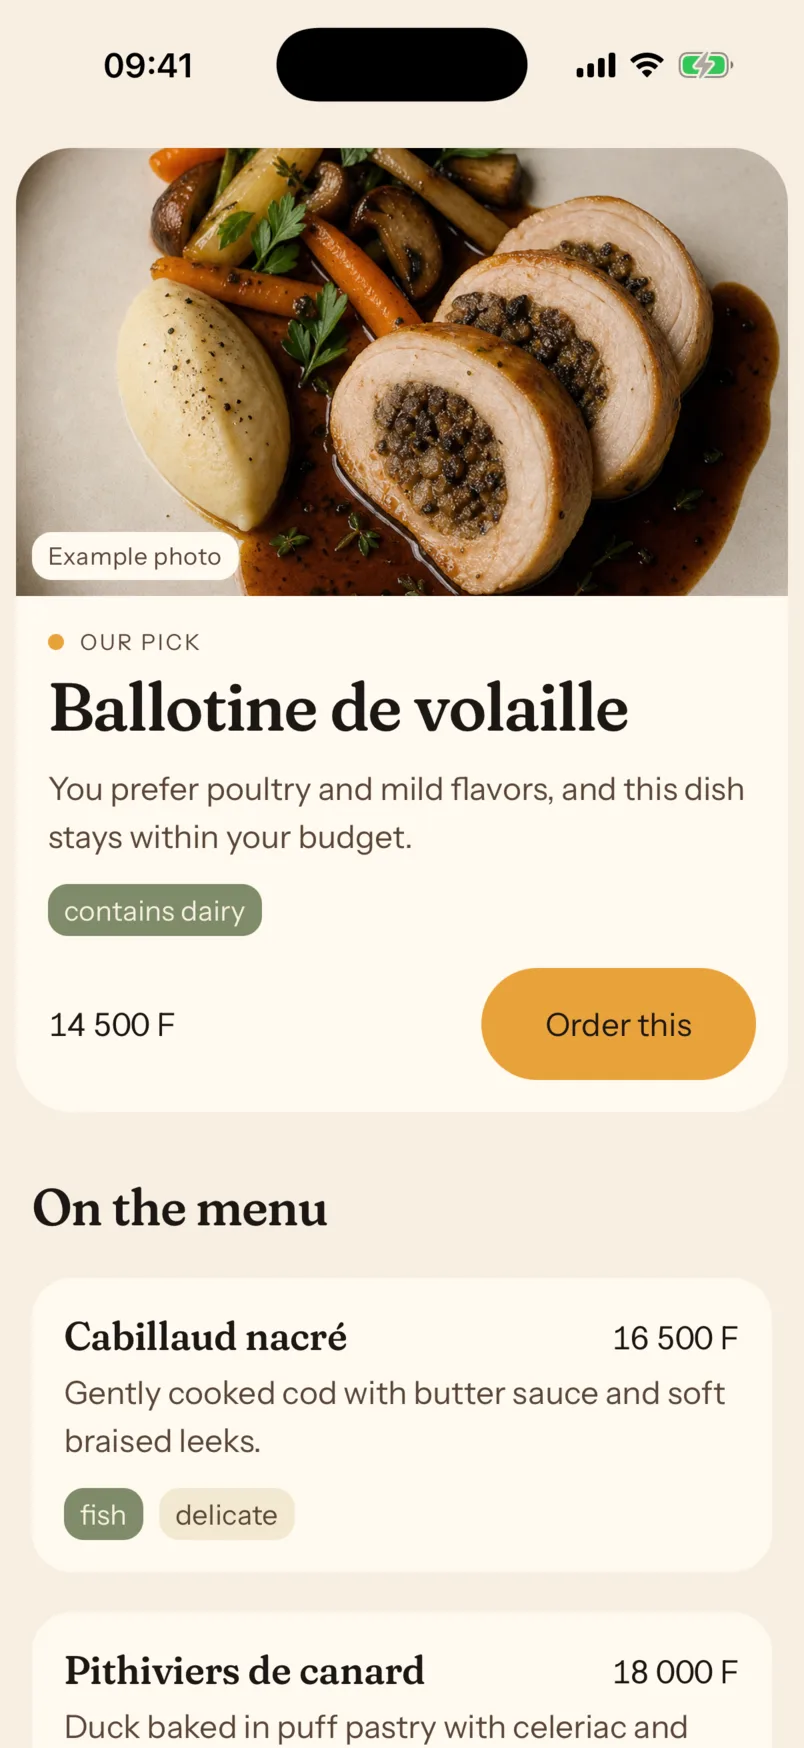
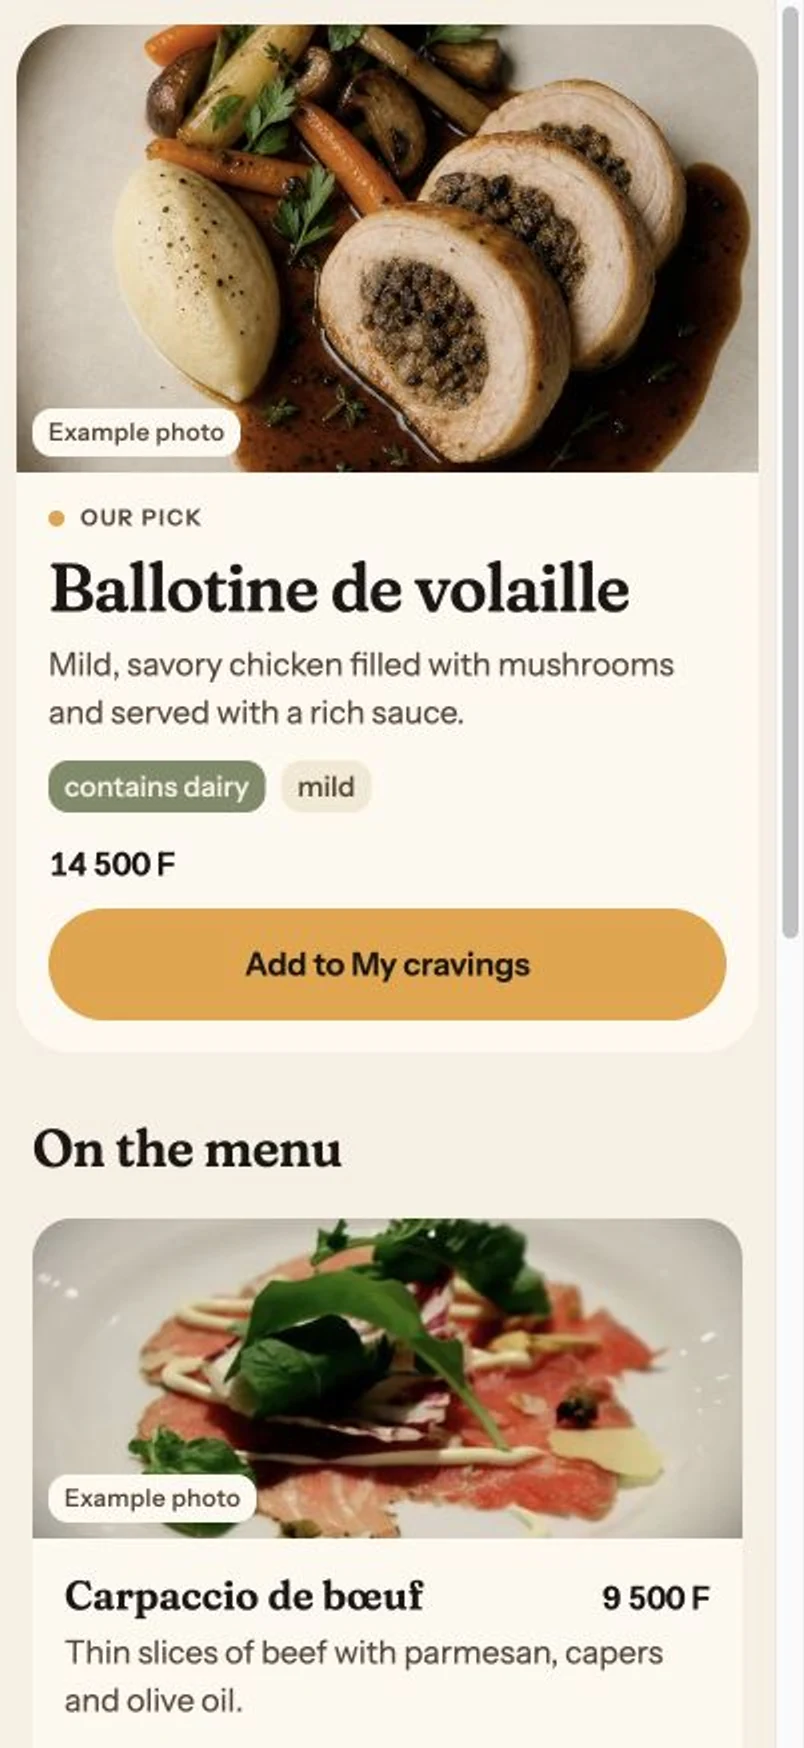
feat: refresh landing with current app screenshots

diff --git a/src/content/copy.ts b/src/content/copy.ts
@@ -43,9 +43,9 @@ export interface LandingCopy {
     preferenceTitle: string;
     preferenceBody: string;
     preferenceAlt: string;
-    allergyTitle: string;
-    allergyBody: string;
-    allergyAlt: string;
+    collectionTitle: string;
+    collectionBody: string;
+    collectionAlt: string;
     privacyTitle: string;
     privacyBody: string;
     privacyAlt: string;
@@ -96,9 +96,9 @@ export interface LandingCopy {
 export const COPY: Record<Lang, LandingCopy> = {
   fr: {
     features: [
-      { title: 'Scanne le menu.', body: 'Une photo suffit.' },
+      { title: 'Scanne jusqu’à trois pages.', body: 'Un seul menu, même quand il continue.' },
       { title: 'Comprends chaque plat.', body: 'Des explications claires.' },
-      { title: 'Reçois une recommandation.', body: 'Un choix adapté à tes préférences.' },
+      { title: 'Garde tes envies.', body: 'Retrouve les plats et les lieux à essayer.' },
     ],
     chaosLines: ['14 plats.', 'Aucune photo.', 'Le serveur attend.'],
     skip: 'Aller au contenu',
@@ -113,20 +113,20 @@ export const COPY: Record<Lang, LandingCopy> = {
     hero: {
       eyebrow: 'Ton guide de menu sur iPhone',
       title: 'Tu regardes le menu. Le menu te regarde.',
-      sub: 'Une photo. Une recommandation. Moins de 60 secondes.',
+      sub: 'Jusqu’à trois pages. Tout le menu expliqué. Un choix qui te ressemble.',
       demo: 'Voir la démo',
       storeAria: 'Télécharger Mishi sur l’App Store',
       unavailable: 'Recevoir les nouvelles du lancement',
     },
     how: {
       eyebrow: 'Un menu flou devient un choix clair',
-      title: 'Trois étapes. Un plat qui te ressemble.',
-      intro: 'Mishi transforme une photo de menu en explications utiles, puis te propose un seul choix.',
+      title: 'Le menu entier. Un choix clair.',
+      intro: 'Mishi rassemble les pages, explique les plats et garde ceux que tu veux essayer.',
       steps: [
         {
           number: '01',
-          title: 'Scanne le menu.',
-          body: 'Cadre la carte ou choisis une photo. Mishi lit aussi les menus sans images et tente les écritures manuscrites.',
+          title: 'Capture toutes les pages.',
+          body: 'Cadre le menu ou choisis jusqu’à trois photos. Mishi les lit ensemble, dans le bon ordre.',
           screen: '/screens/scan-fr.webp',
           alt: 'Écran de capture Mishi cadrant un menu européen fictif aux intitulés complexes',
         },
@@ -139,8 +139,8 @@ export const COPY: Record<Lang, LandingCopy> = {
         },
         {
           number: '03',
-          title: 'Reçois une recommandation.',
-          body: 'Mishi tient compte de tes goûts, de ton budget et de tes préférences pour mettre un choix en avant.',
+          title: 'Choisis et garde tes envies.',
+          body: 'Mishi met un plat en avant, laisse tout le menu visible et garde tes découvertes pour plus tard.',
           screen: '/screens/recommend-fr.webp',
           alt: 'Écran de recommandation Mishi mettant en avant un plat',
         },
@@ -154,11 +154,11 @@ export const COPY: Record<Lang, LandingCopy> = {
       imageBody: 'Photo du plat, photo d’exemple ou illustration: l’origine du visuel reste toujours visible.',
       imageAlt: 'Écran Mishi avec une ballotine clairement identifiée comme photo d’exemple',
       preferenceTitle: 'Tes préférences comptent',
-      preferenceBody: 'Goûts, budget et préférences alimentaires influencent la recommandation. Tu gardes la main.',
-      preferenceAlt: 'Écran Mishi recommandant une ballotine selon les préférences et le budget',
-      allergyTitle: 'Pour les allergies, vérifie toujours',
-      allergyBody: 'Les ingrédients sont indicatifs. Pour une allergie, confirme toujours avec le restaurant.',
-      allergyAlt: 'Écran Mishi signalant les produits laitiers et proposant de corriger un avertissement',
+      preferenceBody: 'Besoins alimentaires, curiosité et niveau de piment restent sur ton appareil et orientent les choix.',
+      preferenceAlt: 'Tableau de bord du profil gourmand Mishi avec préférences et statistiques locales',
+      collectionTitle: 'Tes envies restent à portée de main',
+      collectionBody: 'Chaque plat gardé rejoint un carnet visuel avec son restaurant et son quartier.',
+      collectionAlt: 'Collection Mes envies avec plusieurs plats illustrés et une carte de Dakar',
       privacyTitle: 'Ta photo ne reste pas',
       privacyBody: 'La photo originale du menu est supprimée du stockage au plus tard 24 heures après l’envoi.',
       privacyAlt: 'Écran de capture Mishi cadrant un menu fictif',
@@ -236,9 +236,9 @@ export const COPY: Record<Lang, LandingCopy> = {
   },
   en: {
     features: [
-      { title: 'Scan the menu.', body: 'One photo is enough.' },
+      { title: 'Scan up to three pages.', body: 'One menu, even when it continues.' },
       { title: 'Understand every dish.', body: 'Clear, useful explanations.' },
-      { title: 'Get one recommendation.', body: 'One choice shaped around your preferences.' },
+      { title: 'Keep your cravings.', body: 'Find the dishes and places you want to try.' },
     ],
     chaosLines: ['14 dishes.', 'No photos.', 'The waiter is waiting.'],
     skip: 'Skip to content',
@@ -253,20 +253,20 @@ export const COPY: Record<Lang, LandingCopy> = {
     hero: {
       eyebrow: 'Your iPhone menu guide',
       title: 'You read the menu. The menu reads you.',
-      sub: 'One photo. One recommendation. Under 60 seconds.',
+      sub: 'Up to three pages. Every dish explained. One choice shaped around you.',
       demo: 'See the demo',
       storeAria: 'Download Mishi on the App Store',
       unavailable: 'Get launch updates',
     },
     how: {
       eyebrow: 'A confusing menu becomes a clear choice',
-      title: 'Three steps. One dish that fits.',
-      intro: 'Mishi turns a menu photo into useful explanations, then brings one choice forward.',
+      title: 'The whole menu. One clear choice.',
+      intro: 'Mishi joins the pages, explains the dishes and keeps the ones you want to try.',
       steps: [
         {
           number: '01',
-          title: 'Scan the menu.',
-          body: 'Frame the menu or choose a photo. Mishi also reads menus without pictures and attempts handwritten ones.',
+          title: 'Capture every page.',
+          body: 'Frame the menu or choose up to three photos. Mishi reads them together, in order.',
           screen: '/screens/scan-en.webp',
           alt: 'Mishi capture screen framing a fictional European menu with unfamiliar dish names',
         },
@@ -279,8 +279,8 @@ export const COPY: Record<Lang, LandingCopy> = {
         },
         {
           number: '03',
-          title: 'Get one recommendation.',
-          body: 'Mishi considers your tastes, budget, and preferences to bring one choice forward.',
+          title: 'Choose and keep your cravings.',
+          body: 'Mishi highlights one dish, keeps the full menu visible and saves your discoveries for later.',
           screen: '/screens/recommend-en.webp',
           alt: 'Mishi recommendation screen highlighting one dish',
         },
@@ -294,11 +294,11 @@ export const COPY: Record<Lang, LandingCopy> = {
       imageBody: 'Dish photo, example photo, or illustration: the source of every visual stays visible.',
       imageAlt: 'Mishi screen with a chicken ballotine clearly identified as an example photo',
       preferenceTitle: 'Your preferences matter',
-      preferenceBody: 'Taste, budget, and food preferences shape the recommendation. You stay in control.',
-      preferenceAlt: 'Mishi screen recommending a chicken ballotine based on preferences and budget',
-      allergyTitle: 'For allergies, always verify',
-      allergyBody: 'Ingredients are indicative. For an allergy, always confirm with the restaurant.',
-      allergyAlt: 'Mishi screen flagging dairy and offering a way to report a missing warning',
+      preferenceBody: 'Dietary needs, curiosity and spice tolerance stay on your device and help shape each choice.',
+      preferenceAlt: 'Mishi food profile dashboard with local preferences and activity statistics',
+      collectionTitle: 'Your cravings stay close',
+      collectionBody: 'Every saved dish joins a visual journal with its restaurant and neighborhood.',
+      collectionAlt: 'My cravings collection with illustrated dishes and a Dakar map',
       privacyTitle: 'Your photo does not stay',
       privacyBody: 'The original menu photo is removed from storage no later than 24 hours after upload.',
       privacyAlt: 'Mishi capture screen framing a fictional menu',

diff --git a/src/components/TrustExperience.tsx b/src/components/TrustExperience.tsx
@@ -36,17 +36,17 @@ export function TrustExperience({ lang }: { lang: Lang }) {
       id: 'preferences',
       title: copy.preferenceTitle,
       body: copy.preferenceBody,
-      screen: `/screens/recommend-${screenSuffix}.webp`,
+      screen: `/screens/profile-${screenSuffix}.webp`,
       alt: copy.preferenceAlt,
-      phonePosition: 'center',
+      phonePosition: 'top',
     },
     {
-      id: 'allergies',
-      title: copy.allergyTitle,
-      body: copy.allergyBody,
-      screen: `/screens/understand-${screenSuffix}.webp`,
-      alt: copy.allergyAlt,
-      phonePosition: 'low',
+      id: 'collection',
+      title: copy.collectionTitle,
+      body: copy.collectionBody,
+      screen: `/screens/discover-${screenSuffix}.webp`,
+      alt: copy.collectionAlt,
+      phonePosition: 'top',
     },
     {
       id: 'privacy',

diff --git a/src/index.css b/src/index.css
@@ -418,7 +418,7 @@
     linear-gradient(145deg, rgb(243 232 208), rgb(255 249 239) 62%);
 }
 
-.trust-stack-card-allergies {
+.trust-stack-card-collection {
   background:
     radial-gradient(circle at 94% 48%, rgb(233 162 59 / 38%), transparent 38%),
     linear-gradient(125deg, rgb(255 249 239) 22%, rgb(243 232 208));
